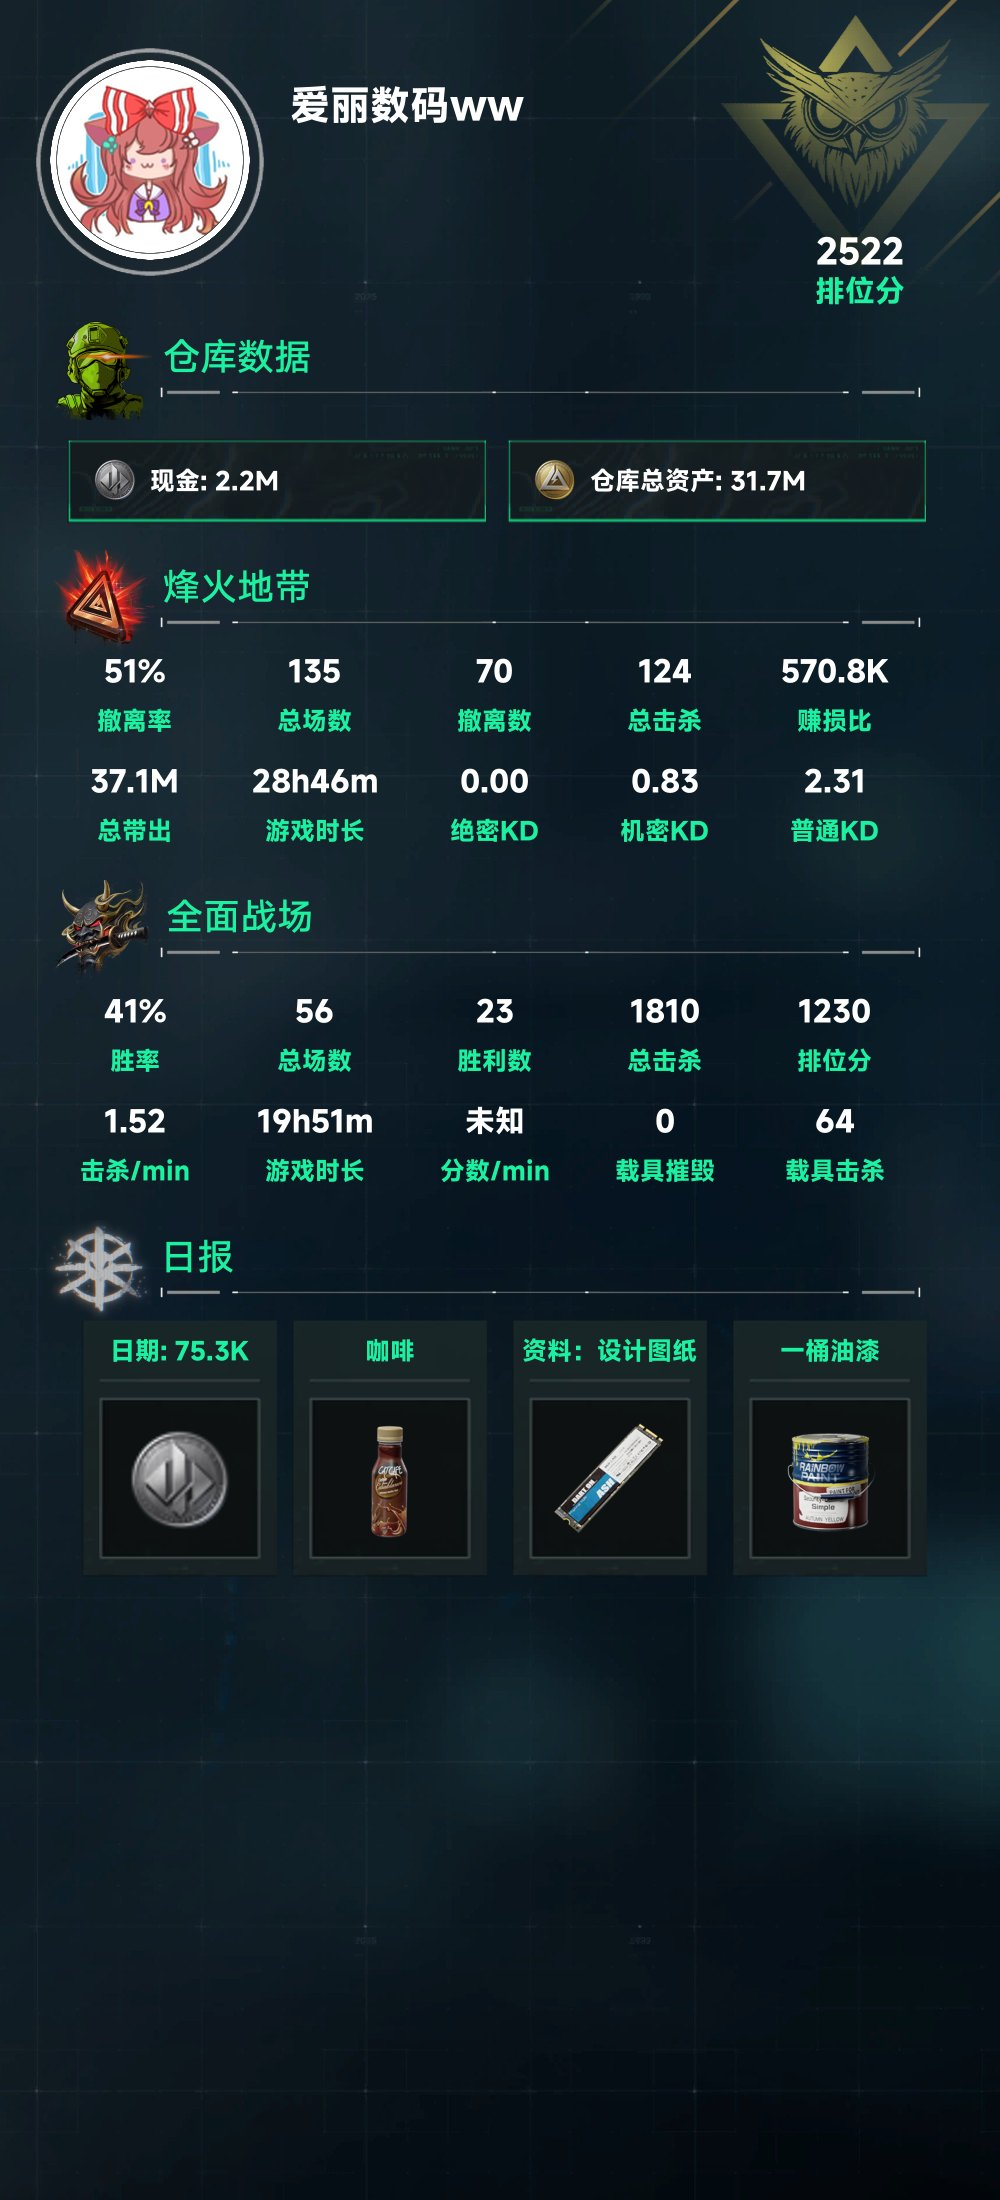
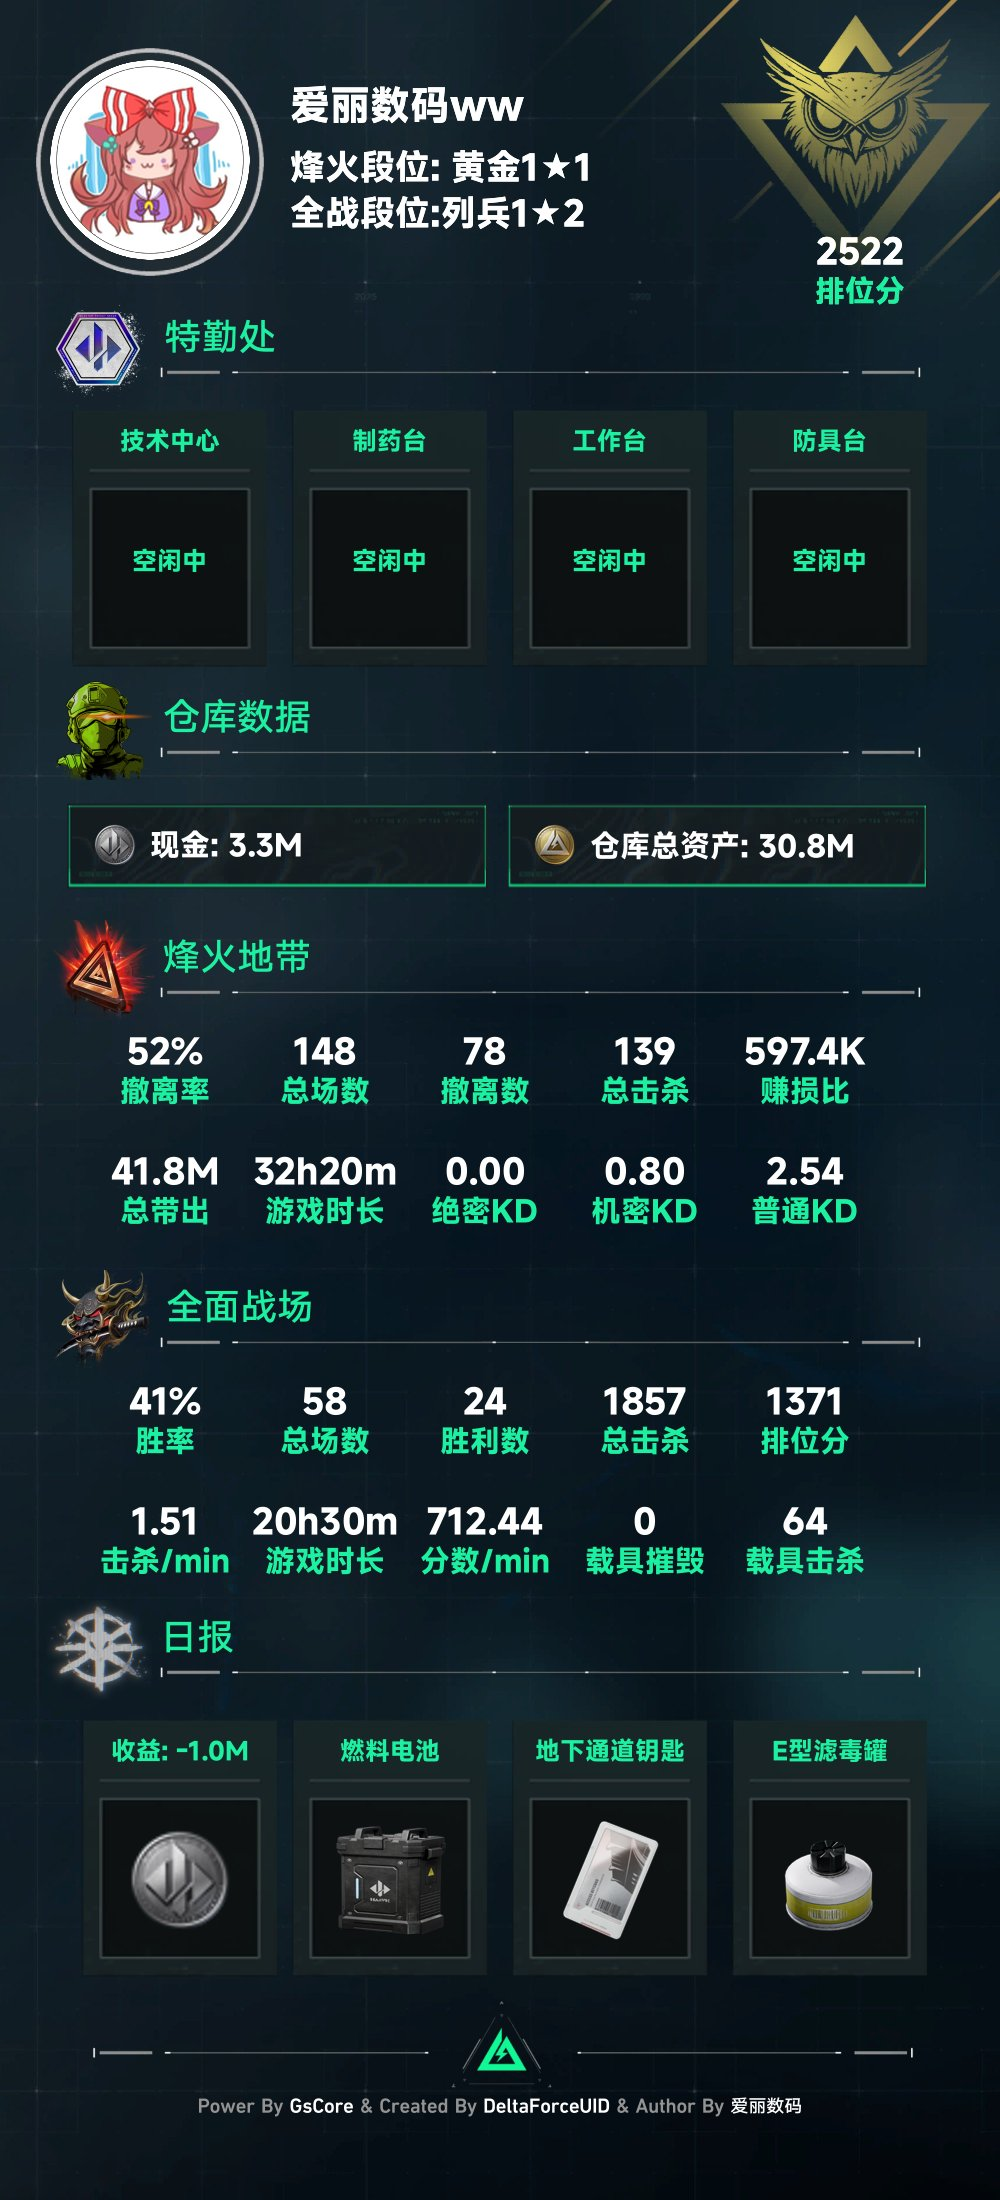
🐛修复部分问题和文档

diff --git a/DeltaUID/Delta_user/msg_info.py b/DeltaUID/Delta_user/msg_info.py
@@ -49,10 +49,11 @@ class MsgInfo:
             openid=self.user_data.uid,
             resource_type="sol",
         )
-        if not sol_info["data"]:
-            return "服务器忙碌,请稍后重试"
         if sol_info["data"].get("rat") == 101:
             return "登录信息已过期，请重新登录"
+        if not sol_info["data"]:
+            return "服务器忙碌,请稍后重试"
+
         tdm_info = await deltaapi.get_person_center_info(
             access_token=self.user_data.cookie,
             openid=self.user_data.uid,
@@ -722,10 +723,10 @@ class MsgInfo:
             access_token=access_token, openid=openid
         )
 
-        if res["status"] and "charac_name" in res["data"]["player"]:
-            user_name = res["data"]["player"]["charac_name"]
-        else:
+        if not (res["status"] and "charac_name" in res["data"]["player"]):
             return "获取角色信息失败，可能需要重新登录"
+
+        user_name = res["data"]["player"]["charac_name"]
         for i in range(1, 3):
             statDate, statDate_str = Util.get_Sunday_date(i)
             res = await deltaapi.get_weekly_report(

diff --git a/DeltaUID/Delta_user/image.py b/DeltaUID/Delta_user/image.py
@@ -133,7 +133,6 @@ async def draw_df_info_img(
             df_font(25),
             "mm",
         )
-        print(tqc)
         if tqc[i] == "producing":
             tqc_sth_draw.text(
                 (150, 170),
@@ -264,7 +263,7 @@ async def draw_df_info_img(
 
     # 全面战场
 
-    tdm_tap = 1370
+    tdm_tap = 1380
     tdm_indent = 160
     tdm_base = 120
     img.paste(tdm_bg, (0, tdm_tap - 100), tdm_bg)
@@ -328,7 +327,7 @@ async def draw_df_info_img(
     )
 
     # 日报
-    day_tap = 1600
+    day_tap = 1640
     day_bar = Image.open(TEXTURE / "物品栏.png").convert("RGBA")
     img.paste(day_bg, (0, day_tap), day_bg)
 

diff --git a/README.md b/README.md
@@ -1,5 +1,3 @@
-# RatGrinder
-
 <p align="center">
   <a href="https://github.com/Agnes4m/DeltaUID"><img src="./icon.png" width="256" height="256" alt="DeltaUID"></a>
 </p>
@@ -21,9 +19,9 @@
 
 <img src="./doc/test.jpg" alt="图片" width="50%" height="auto">
 
-## 丨安装方式(未支持,可使用文档 git 方式)
+## 丨安装方式
 
-1. ~~发送`core安装插件DeltaUID`~~
+1. 发送`core安装插件DeltaUID`
 2. 发送`gs重启`应用插件
 
 ---
